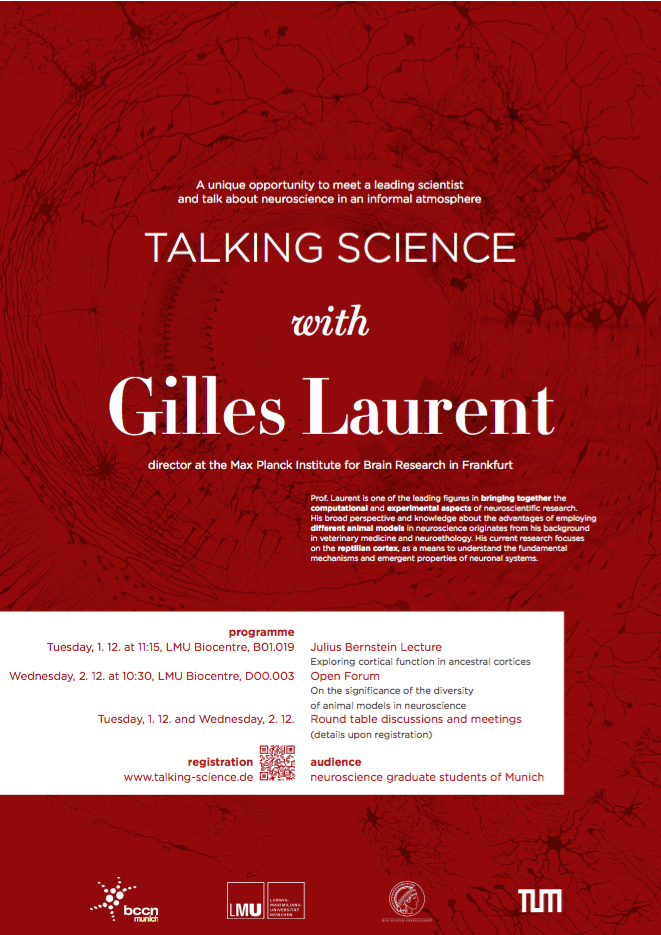
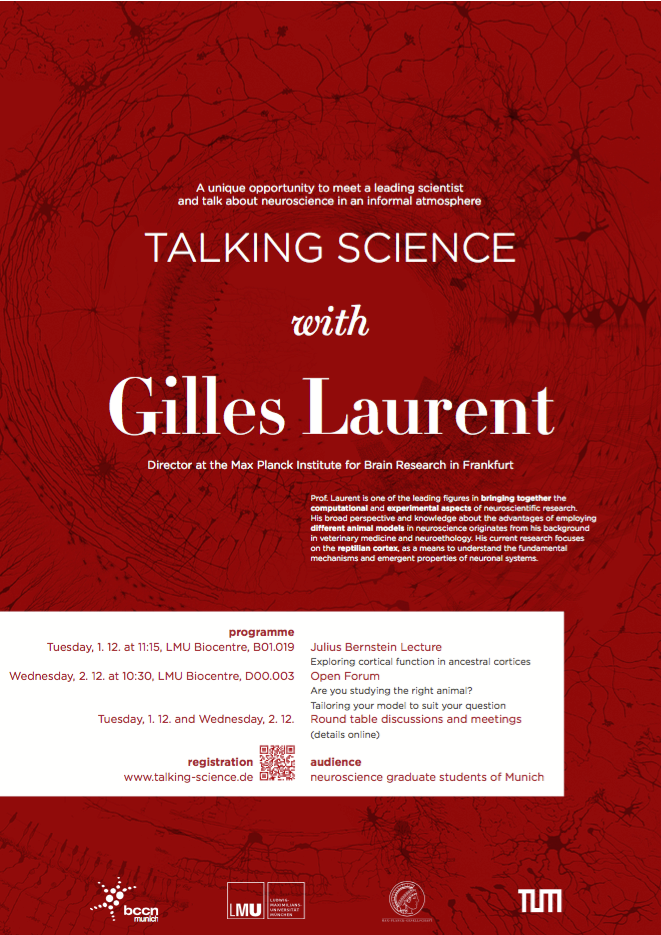
Update form/poster

diff --git a/index.html b/index.html
@@ -52,7 +52,7 @@
         <h1>Talking Science with Gilles Laurent</h1>
         <p><b>Talking Science</b> is a unique opportunity to meet and talk about neuroscience with a leading researcher in an informal atmosphere - a two-day program for the PhD students of LMU, TUM, and the MPIs. The event takes place on Tuesday and Wednesday, December 1st to 2nd.</p>
         <div class="text-center">
-          <a class="btn btn-primary" href="https://docs.google.com/spreadsheets/d/1RoVI_hOLtBjX6p0RDVYDdqLwam_eGoUfdgy4ZALhn6E/edit?usp=sharing" target="_blank" role="button">Sign up now!</a>
+          <a class="btn btn-primary" href="https://docs.google.com/forms/d/1VIiWKMITcysnkaEIst-RrjZd0znwLklaeiNROv1TzFU/viewform?usp=send_form" target="_blank" role="button">Sign up now!</a>
         </div>
       </div>
 
@@ -80,7 +80,7 @@
 
       <p>Gilles Laurent has a PhD in Neuroethology from the University Paul Sabatier of Toulouse (France) and a Doctorate in Veterinary Medicine. He worked as a postdoc and a Locke Research Fellow of the Royal Society at the University of Cambridge (UK). In 1990, he joined the faculty of the Biology Division at the California Institute of Technology (Pasadena, CA, USA), where he became Lawrence A. Hanson Professor of Biology in the field of <i>Computation and Neural Systems</i> in 2002. His interests are in experimental and computational neuroscience, with an emphasis on coding and circuit computation in the olfactory and visual systems. In 2008, Gilles Laurent was appointed Director of the Department of Neural Systems and Coding at the Max-Planck-Institute for Brain Research in Frankfurt am Main (Germany).</p>
 
-       <p>The program consists of the main talk, a public discussion, and two round table discussions. Additionally, there is the possibility for lunch, dinner, or one-on-one meetings with Professor Laurent. The schedule will be posted soon. Sign up <a href="https://docs.google.com/spreadsheets/d/1RoVI_hOLtBjX6p0RDVYDdqLwam_eGoUfdgy4ZALhn6E/edit?usp=sharing" target="_blank">here</a>!</p>
+       <p>The program consists of the main talk, a public discussion, and two round table discussions. Additionally, there is the possibility for lunch, dinner, or one-on-one meetings with Professor Laurent. The schedule will be posted soon. Sign up <a href="https://docs.google.com/forms/d/1VIiWKMITcysnkaEIst-RrjZd0znwLklaeiNROv1TzFU/viewform?usp=send_form" target="_blank">here</a>!</p>
 
       <div style="height:50px;"></div>
        <p><img src="poster2015.png" width="450px" class="center-block"></p>
